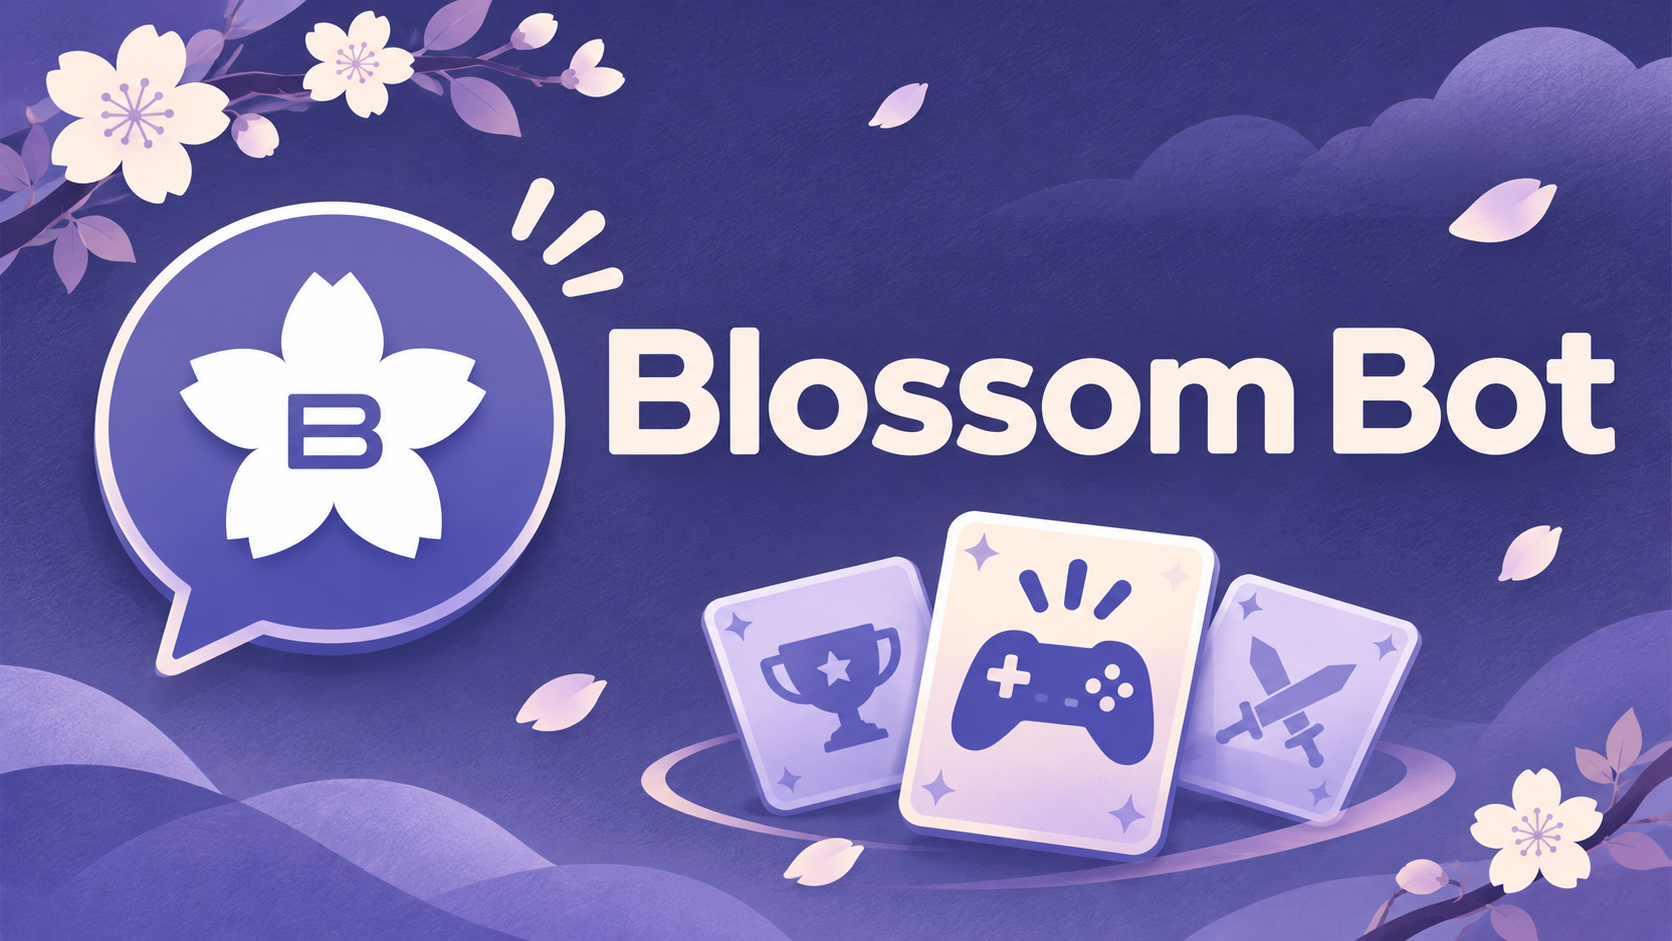
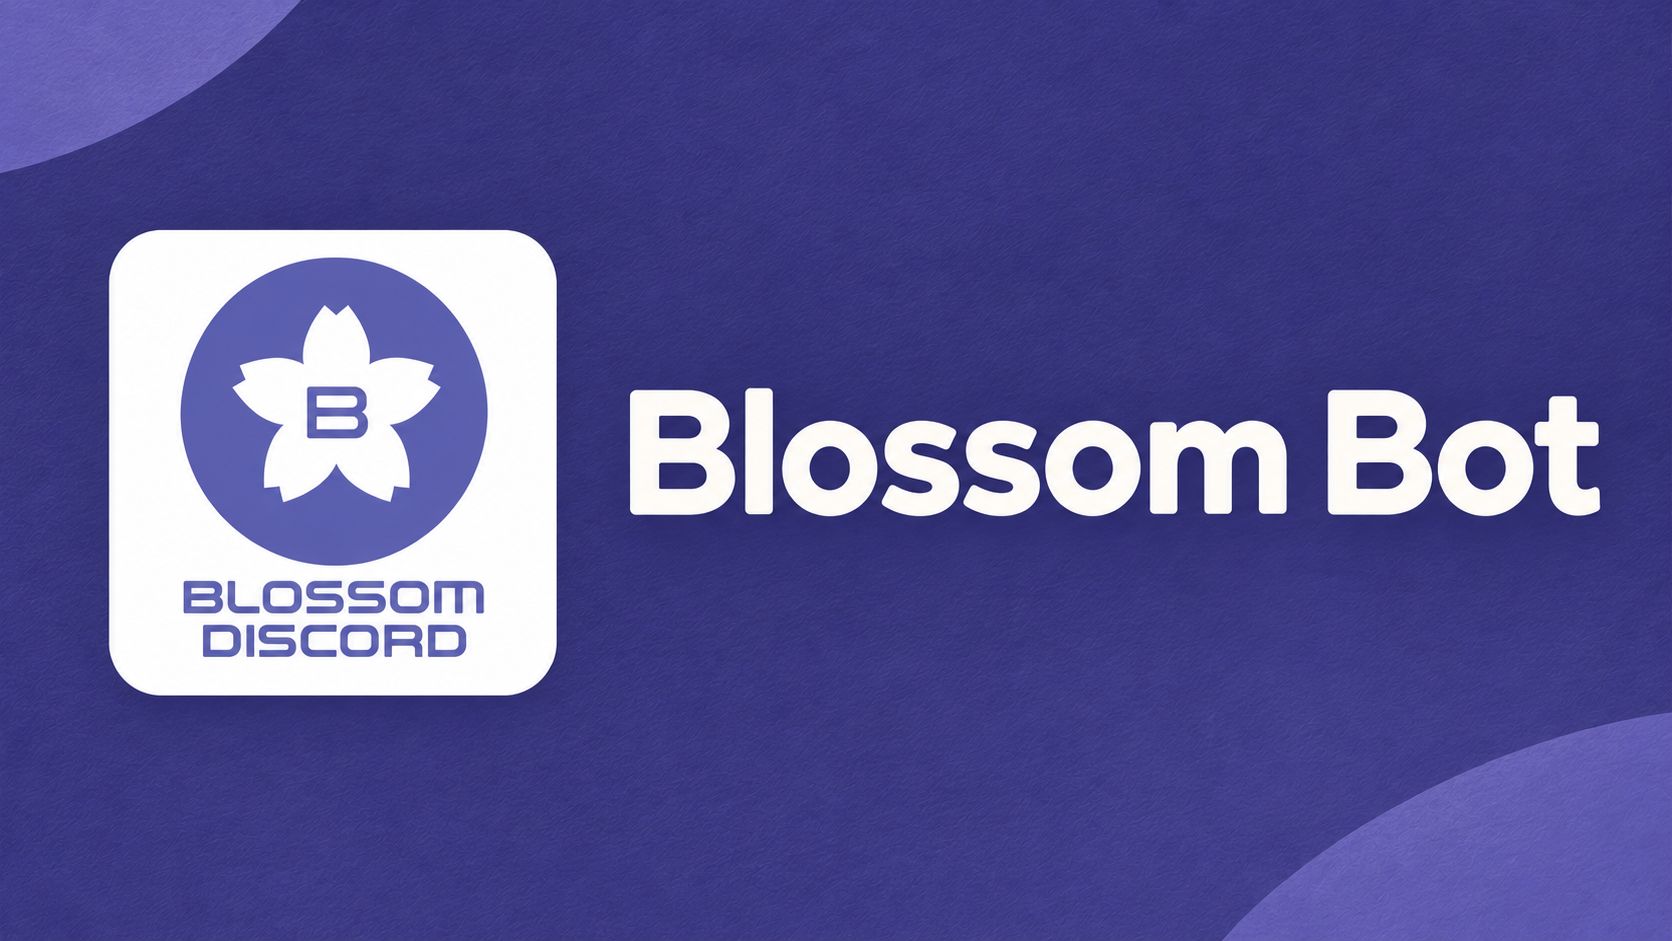
docs : 아이콘 배치형 소개 배너 적용

diff --git a/README.md b/README.md
@@ -1,6 +1,6 @@
 # Blossom-Bot
 
-![Blossom Bot — Discord에서 만나는 브롤스타즈 정보](images/blossom-banner.png)
+![Blossom Discord 아이콘과 Blossom Bot 이름을 배치한 소개 배너](images/blossom-banner.png)
 
 <img alt="Blossom Icon" src="./images/blossom_discord_logo.png" width="400"/>
 
